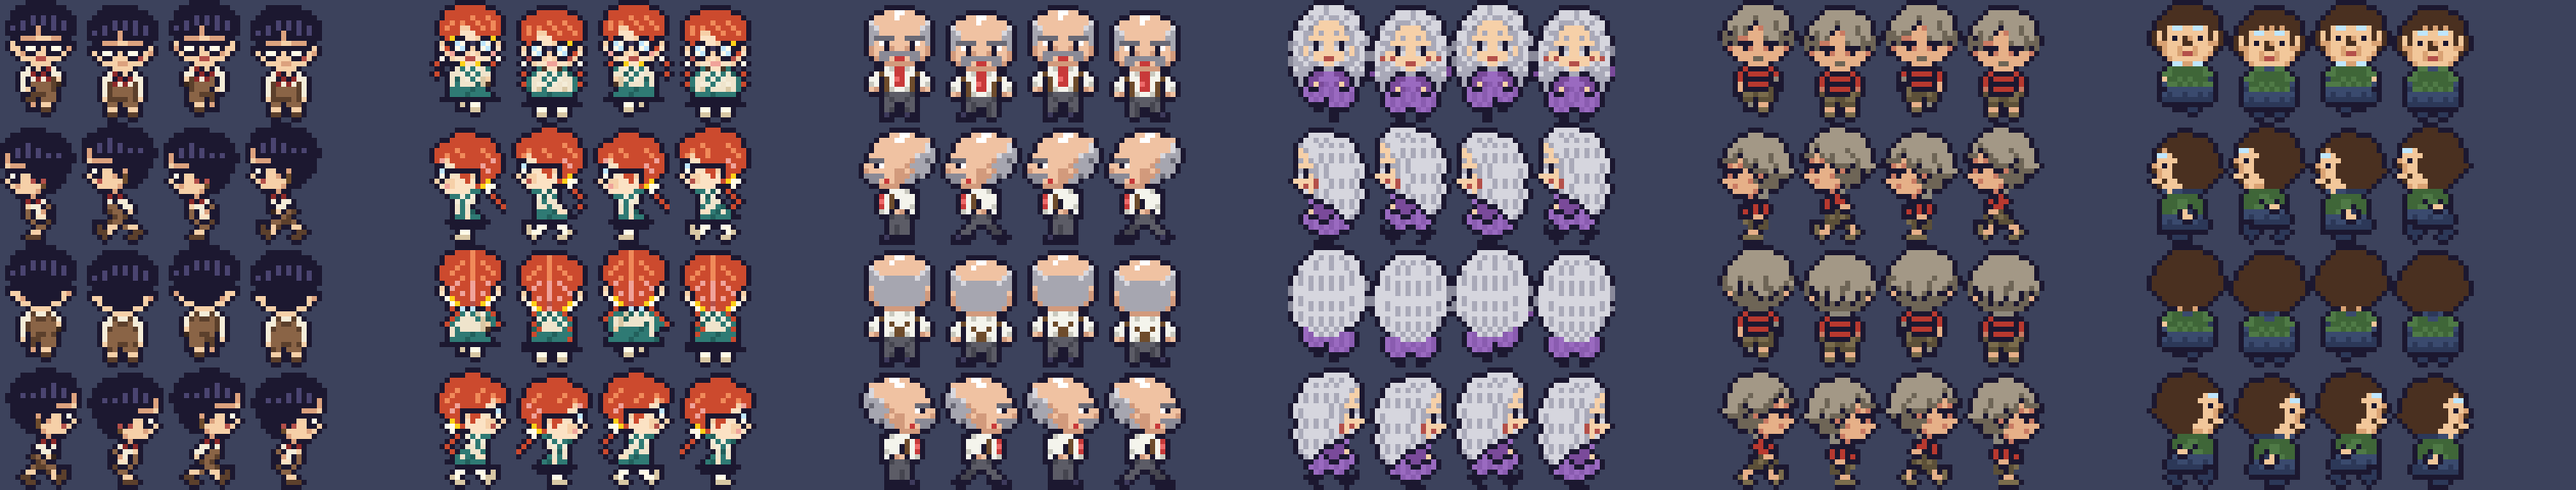
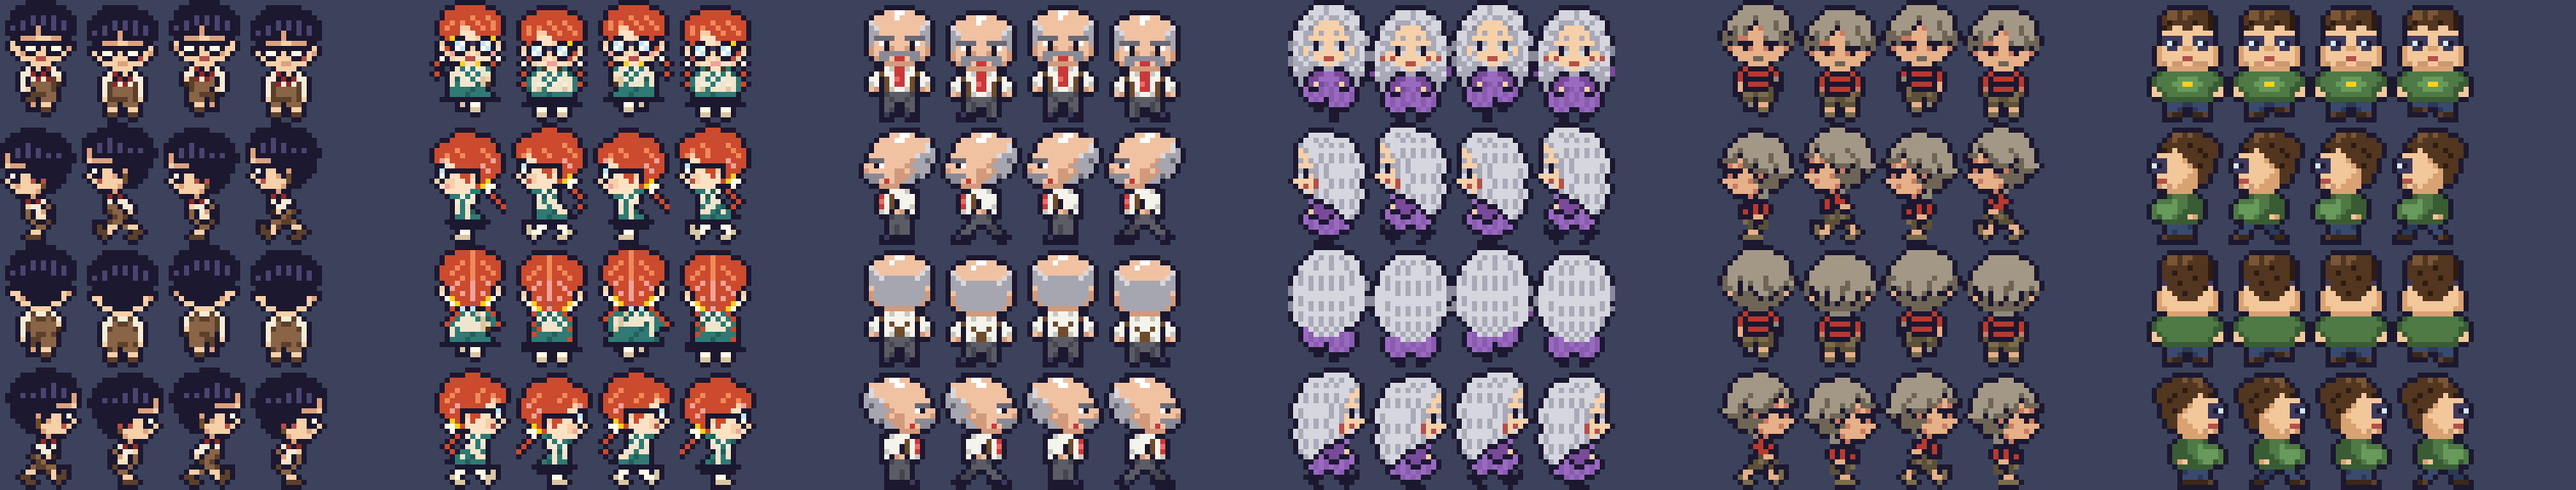
feat: Benny redibujado con silueta propia y su cuarto con servidores, mas libros y posteres de anime

Changed region(s): [[0.8082, 0.0, 0.9636, 1.0]]

diff --git a/src/scenes/places.ts b/src/scenes/places.ts
@@ -344,11 +344,18 @@ const benny: PlaceDef = {
     w.fillStyle(0x2a2140, 1).fillRect(0, 36, ROOM_W, 4);
     w.fillStyle(0x1c1830, 1).fillRect(0, 39, ROOM_W, 1);
     frame(c, undefined, 0x2a2140);
-    // pósteres y la ventana con la persiana bajada
+    // pósteres (naves, ordenadores y anime) y la ventana con la persiana bajada
     c.img("posters", 16, 6, 0).setDepth(3);
-    c.img("posters", 40, 6, 1).setDepth(3);
+    c.img("posters", 40, 6, 3).setDepth(3);
     c.img("window", 120, 2, 1).setDepth(3);
-    c.img("posters", 268, 6, 1).setDepth(3).setFlipX(true);
+    c.img("posters", 162, 6, 2).setDepth(3);
+    c.img("posters", 184, 6, 1).setDepth(3);
+    // dos armarios de servidores en el rincón, con las luces parpadeando
+    for (const [x, d] of [[274, 0], [296, 400]] as const) {
+      const r = c.scene.add.sprite(x, 8, "server_rack", 0).setOrigin(0, 0).setDepth(100 + 50);
+      c.scene.time.delayedCall(d, () => r.play("rack-blink"));
+    }
+    c.solid(274, 40, 44, 10);
     // cama individual sin hacer: cabecera con almohada y la manta
     c.prop("bed", 14, 42);
     c.solid(14, 46, 22, 32);
@@ -360,14 +367,19 @@ const benny: PlaceDef = {
     c.prop("chair", 212, 64);
     c.prop("soda_cans", 254, 60);
     // estantería con manuales, el puf y las cajas de pizza
+    c.prop("kenney", 60, 26, kenney(20, 17));
+    c.prop("kenney", 76, 26, kenney(21, 17));
     c.prop("kenney", 92, 26, kenney(20, 17));
     c.prop("kenney", 108, 26, kenney(21, 17));
-    c.solid(92, 34, 32, 8);
+    c.solid(60, 34, 64, 8);
+    c.prop("book_piles", 126, 30);
+    c.prop("book_piles", 30, 150);
+    c.solid(32, 160, 24, 8);
     c.prop("beanbag", 60, 118);
     c.solid(62, 126, 20, 8);
     c.prop("pizza_boxes", 270, 140);
     c.solid(272, 148, 22, 8);
-    c.prop("trash", 300, 60);
+    c.prop("trash", 300, 100);
   },
   home: [232, 92],
   terminal: { x: 216, y: 74, mark: [213, 30] },
@@ -380,7 +392,21 @@ const benny: PlaceDef = {
       ],
     },
     { id: "pizza", x: 282, y: 156, r: 16, label: "Cajas de pizza", lines: [{ who: "sam", text: "Cinco cajas vacías. Una con una nota: \"no tirar, es arte\"." }] },
-    { id: "manuales", x: 108, y: 48, r: 16, label: "Estantería", lines: [{ who: "sam", text: "El manual de C de Kernighan y Ritchie, tres de UNIX y un cómic de ciencia ficción encima de todo." }] },
+    { id: "manuales", x: 92, y: 48, r: 22, label: "Estanterías", lines: [{ who: "sam", text: "El manual de C de Kernighan y Ritchie, tres de UNIX, uno de LISP y una pila de cómics japoneses encima de todo." }] },
+    {
+      id: "servidores", x: 296, y: 56, r: 18, label: "Servidores",
+      lines: [
+        { who: "sam", text: "¿Tienes dos armarios de servidores en el cuarto?" },
+        { who: "benny", text: "Me los dio la universidad. Bueno, los iban a tirar. Calientan el cuarto gratis." },
+      ],
+    },
+    {
+      id: "posteres", x: 184, y: 46, r: 16, label: "Pósteres",
+      lines: [
+        { who: "sam", text: "Un robot gigante y una chica de ojos enormes. ¿Qué es esto?" },
+        { who: "benny", text: "Anime. De Japón. Me llegan las cintas por correo, subtituladas por un tipo de Ohio.", mood: "alegre" },
+      ],
+    },
   ],
   routine: [
     {

diff --git a/src/scenes/BootScene.ts b/src/scenes/BootScene.ts
@@ -34,10 +34,11 @@ export class BootScene extends Phaser.Scene {
     sheet("emotes", "emotes.png", 11, 11);
     sheet("sam_bike", "sam_bike.png", 40, 38);
     sheet("radio_rig", "radio_rig.png", 34, 24);
+    sheet("server_rack", "server_rack.png", 22, 42);
     sheet("posters", "posters.png", 18, 24);
     for (const f of [
       "wall", "wall_cap_v", "wall_cap_h", "chalkboard", "clock", "mug", "filing", "poster",
-      "calendar", "phone", "papers", "trash", "desk", "chair", "table", "rug", "telescope", "coatrack", "bicycle", "postit", "fridge", "paper_item", "folder_item", "pegboard", "workbench", "qsl_cards", "tire_stack", "pizza_boxes", "beanbag", "soda_cans", "bed",
+      "calendar", "phone", "papers", "trash", "desk", "chair", "table", "rug", "telescope", "coatrack", "bicycle", "postit", "fridge", "paper_item", "folder_item", "pegboard", "workbench", "qsl_cards", "tire_stack", "pizza_boxes", "beanbag", "soda_cans", "bed", "book_piles",
     ]) {
       this.load.image(f, A + f + ".png");
     }
@@ -65,6 +66,7 @@ export class BootScene extends Phaser.Scene {
     this.anims.create({ key: "cat-sleep", frames: this.anims.generateFrameNumbers("cat", {}), frameRate: 1.2, repeat: -1 });
     this.anims.create({ key: "cooler-bubble", frames: this.anims.generateFrameNumbers("cooler", {}), frameRate: 6, repeat: 3 });
     this.anims.create({ key: "radio-play", frames: this.anims.generateFrameNumbers("radio", {}), frameRate: 3.5, repeat: -1 });
+    this.anims.create({ key: "rack-blink", frames: this.anims.generateFrameNumbers("server_rack", {}), frameRate: 1.5, repeat: -1 });
     this.anims.create({ key: "radio-rx", frames: this.anims.generateFrameNumbers("radio_rig", {}), frameRate: 2, repeat: -1 });
     this.anims.create({ key: "sam-bike", frames: this.anims.generateFrameNumbers("sam_bike", {}), frameRate: 9, repeat: -1 });
     this.anims.create({ key: "sat-blink", frames: this.anims.generateFrameNumbers("satellite", {}), frameRate: 2, repeat: -1 });

diff --git a/tools/art/characters.py b/tools/art/characters.py
@@ -42,6 +42,15 @@ CHARS = {
         "w": "#f4f4ec", "v": "#c8c8be", "r": "#c83a3a", "R": "#ee6a6a", "J": "#6e4c2c",
         "p": "#5c5c66", "P": "#45454f", "b": "#1c1830", "B": "#3e3a5c",
     },
+    # Benny: programador grande y desganado. Pelo castaño revuelto, gafas grandes,
+    # barba de tres días, camiseta verde que le queda justa en la barriga, vaqueros.
+    "benny": {
+        "s": "#f2c79a", "S": "#d9a273", "c": "#c99a74",
+        "H": "#7a5636", "h": "#523620", "d": "#2e1c12",
+        "g": "#3e3a5c", "L": "#cfeeff",
+        "t": "#4f7a46", "T": "#3a5c34", "l": "#689a5c", "y": "#fed018",
+        "p": "#3a4a6e", "P": "#2c3858", "b": "#3a2818", "B": "#5c4030",
+    },
 }
 
 # Cada vista: 13 filas de cabeza + 6 de cuerpo (las piernas van aparte).
@@ -241,6 +250,119 @@ VIEWS = {
             "....kkPppPkk....",
         ],
     },
+    "benny": {
+        "down": [
+            "................",
+            "....kkkkkkkk....",
+            "...kHHhHHhhhk...",
+            "..khHHhHhhhhdk..",
+            "..khdhhhhdhhdk..",
+            "..kdhsshhsshdk..",
+            "..kssssssssssk..",
+            "..kggggssggggk..",
+            "..kgLegssgLegk..",
+            ".kSsggsSSsggsSk.",
+            ".kSssssssssssSk.",
+            ".kSssssrrssssSk.",
+            ".kScsccsscccsSk.",
+            "..kkSSSSSSSSkk..",
+            ".kTttttttttttTk.",
+            "kTttttllllttttTk",
+            "kTtttllyyllttTTk",
+            "ksTtttllllttTTsk",
+            "kssTttttttttTssk",
+        ],
+        "up": [
+            "................",
+            "....kkkkkkkk....",
+            "...kHHhHHhhhk...",
+            "..khHHhHhhhhdk..",
+            "..khhhhhdhhhdk..",
+            "..khhdhhhhhhdk..",
+            "..khhhhhhdhhdk..",
+            "..kghhdhhhhhgk..",
+            "..kshhhhhhhdsk..",
+            ".kSsshhdhhhssSk.",
+            ".kSssshhhhsssSk.",
+            ".kSssssssssssSk.",
+            ".kSSssssssssSSk.",
+            "..kkSSSSSSSSkk..",
+            ".kTttttttttttTk.",
+            "kTttttttttttttTk",
+            "kTtttttttttttTTk",
+            "ksTttttttttttTsk",
+            "kssTttttttttTssk",
+        ],
+        "left": [
+            "................",
+            ".....kkkkkk.....",
+            "....kHHhHhhkk...",
+            "...khHhhhhhhhk..",
+            "..khhhhhdhhhhhk.",
+            "..kdhshhhhdhhhk.",
+            ".kssssshhhhdhhk.",
+            "kgggsssShhhhhk..",
+            "kLegssssShdhhk..",
+            "kgggsssssShhhk..",
+            ".kssssssSShhk...",
+            ".krrsssSSShhk...",
+            ".kcscsSSSSkk....",
+            "..kkSSSSSk......",
+            "..kkTtttTTk.....",
+            ".ktttlttTTTk....",
+            "ktllllttTTTk....",
+            "ktlllltTTTTk....",
+            "ktTlltTTsSTk....",
+        ],
+    },
+}
+
+BENNY_LEGS_FRONT = {
+    "stand": [
+        ".kkTTTTTTTTTTkk.",
+        "...kpppPPpppk...",
+        "...kppPkkPppk...",
+        "...kBbbkkbbBk...",
+        "...kkkk..kkkk...",
+    ],
+    "a": [
+        ".kkTTTTTTTTTTkk.",
+        "...kpppPPpppk...",
+        "...kppPkkbbBk...",
+        "...kBbbk.kkkk...",
+        "...kkkk.........",
+    ],
+    "b": [
+        ".kkTTTTTTTTTTkk.",
+        "...kpppPPpppk...",
+        "...kbbBkkPppk...",
+        "...kkkk.kBbbk...",
+        ".........kkkk...",
+    ],
+}
+
+BENNY_LEGS_SIDE = {
+    "stand": [
+        ".kkTTTTTTTk.....",
+        "...kppppPk......",
+        "...kpPpppk......",
+        "..kBbbbbbk......",
+        "..kkkkkkkk......",
+    ],
+    "a": [
+        ".kkTTTTTTTk.....",
+        "..kppkkPPk......",
+        ".kppk..kPPk.....",
+        "kBbbk...kbbk....",
+        "kkkk.....kkk....",
+    ],
+    "b": [
+        ".kkTTTTTTTk.....",
+        "..kPPkkppk......",
+        ".kPPk..kppk.....",
+        "kbbbk...kBbk....",
+        "kkkk.....kkk....",
+    ],
 }
 
 LEGS_FRONT = {
@@ -370,7 +492,10 @@ def frame_raw(name, view, step):
     rows = VIEWS[name][view]
     if name in ("sam", "ruth"):
         rows = autoshade(rows, "strands" if name == "sam" else "curls")
-    rows = rows + (LEGS_SIDE if view == "left" else LEGS_FRONT)[step]
+    if name == "benny":
+        rows = rows + (BENNY_LEGS_SIDE if view == "left" else BENNY_LEGS_FRONT)[step]
+    else:
+        rows = rows + (LEGS_SIDE if view == "left" else LEGS_FRONT)[step]
     assert len(rows) == 24, (name, view, len(rows))
     im = Image.new("RGBA", (16, 24), (0, 0, 0, 0))
     for y, row in enumerate(rows):
@@ -394,6 +519,11 @@ FACE_EDITS = {
         "sorpresa": [(11, 7, "k"), (11, 8, "k"), (7, 4, "k"), (7, 5, "k"), (7, 10, "k"), (7, 11, "k")],
         "serio": [(11, 7, "S"), (11, 8, "S"), (8, 4, "k"), (8, 5, "k"), (8, 10, "k"), (8, 11, "k")],
         "alegre": [(11, 6, "r"), (11, 7, "W"), (11, 8, "W"), (11, 9, "r"), (9, 4, "k"), (9, 5, "k"), (9, 10, "k"), (9, 11, "k"), (10, 5, "s"), (10, 10, "s")],
+    },
+    "benny": {
+        "sorpresa": [(11, 7, "k"), (11, 8, "k"), (12, 7, "k"), (12, 8, "k")],
+        "serio": [(11, 7, "k"), (11, 8, "k"), (11, 6, "k"), (11, 9, "k"), (6, 3, "d"), (6, 4, "d"), (6, 11, "d"), (6, 12, "d")],
+        "alegre": [(11, 6, "r"), (11, 7, "W"), (11, 8, "W"), (11, 9, "r"), (10, 3, "R"), (10, 12, "R")],
     },
     "kessler": {
         "sorpresa": [(11, 7, "k"), (11, 8, "k"), (7, 3, "s"), (7, 4, "s"), (7, 11, "s"), (7, 12, "s"), (6, 4, "d"), (6, 5, "d"), (6, 10, "d"), (6, 11, "d")],
@@ -440,7 +570,7 @@ def build_portraits():
 # izquierda (por eso al principio Sam "caminaba al revés").
 
 PACK = os.path.join(os.path.dirname(os.path.abspath(__file__)), "source", "piano_characters.png")
-PACK_INDEX = {"sam": 5, "ruth": 8, "margarita": 6, "gus": 3, "benny": 12}
+PACK_INDEX = {"sam": 5, "ruth": 8, "margarita": 6, "gus": 3}
 PACK_ROWS = [0, 3, 2, 1]  # abajo, izquierda, arriba, derecha
 
 PACK_SRC = {

diff --git a/tools/art/mentor_props.py b/tools/art/mentor_props.py
@@ -139,7 +139,8 @@ def beanbag():
 
 
 def poster(kind):
-    """Pósteres del cuarto de Benny: 0 una nave espacial, 1 un ordenador de los 80."""
+    """Pósteres del cuarto de Benny: 0 una nave espacial, 1 un ordenador de los 80,
+    2 un robot gigante de anime, 3 una chica de anime de ojos enormes."""
     c = Canvas(18, 24)
     c.box(0, 0, 18, 24, "z")
     if kind == 0:
@@ -148,6 +149,32 @@ def poster(kind):
         c.ascii(5, 7, ["...H....", "..HwH...", ".HwuwH..", "HHwwwHH.", "..y.y..."])
         c.rect(2, 19, 14, 3, "y")
         c.hline(4, 20, 10, "a")
+    elif kind == 2:
+        # cabeza de robot gigante: casco blanco, antena en V amarilla y visor verde
+        c.rect(1, 1, 16, 22, "v")
+        c.ascii(2, 2, ["y............y", ".y..........y.", "..yy......yy..", "....yy..yy....", "......yy......"])
+        c.box(4, 7, 10, 9, "W")
+        c.rect(5, 8, 8, 2, "u")
+        c.rect(6, 10, 6, 2, "k")
+        c.ascii(6, 10, ["NN..NN"])
+        c.rect(7, 13, 4, 2, "r")
+        c.ascii(5, 14, ["h......h"])
+        c.rect(1, 18, 16, 5, "r")
+        c.ascii(3, 19, ["W.WW.W.WWW.W", "WW.W.WW.W.WW"])
+    elif kind == 3:
+        # chica de anime: flequillo rosa, ojos enormes y letras japonesas de mentira
+        c.rect(1, 1, 16, 22, "U")
+        c.ascii(14, 2, ["k", "k", ".", "k", "k", "k", ".", "k"])
+        c.rect(3, 4, 10, 12, "7")
+        c.rect(4, 8, 8, 8, "P")
+        c.ascii(3, 7, ["7778777877", "77.7..7.77"])
+        c.ascii(4, 10, ["kkW..kkW", "kuu..kuu", "kuu..kuu"])
+        c.ascii(7, 14, ["rr"])
+        c.ascii(4, 13, ["R......R"])
+        c.rect(2, 14, 2, 6, "7")
+        c.rect(12, 14, 2, 6, "8")
+        c.rect(4, 16, 8, 6, "r")
+        c.ascii(6, 16, ["WWWW"])
     else:
         c.box(3, 4, 12, 9, "H")
         c.rect(5, 6, 8, 5, "u")
@@ -188,6 +215,36 @@ def bed():
     return c
 
 
+def server_rack(frame):
+    """Armario de servidores con las luces parpadeando (dos cuadros)."""
+    c = Canvas(22, 42)
+    c.box(0, 0, 22, 42, "K")
+    c.rect(1, 1, 20, 2, "s")
+    for i in range(6):
+        y = 4 + i * 6
+        c.box(2, y, 18, 5, "g")
+        c.hline(3, y + 1, 16, "G")
+        for j in range(4):
+            on = (i * 3 + j + frame) % 3 != 0
+            c.put(4 + j * 2, y + 3, ("n" if (i + j) % 4 else "A") if on else "s")
+        c.ascii(13, y + 2, ["hhhhh", "s.s.s"])
+    c.rect(2, 40, 18, 1, "s")
+    return c
+
+
+def book_piles():
+    """Pilas de libros y manuales en el suelo."""
+    c = Canvas(26, 18)
+    piles = [(0, ["u", "r", "y", "n", "U"]), (9, ["n", "A", "u"]), (16, ["r", "W", "u", "y", "A", "n"])]
+    for x, cols in piles:
+        for i, col in enumerate(cols):
+            y = 15 - i * 3
+            dx = (i % 2)
+            c.box(x + dx, y, 9, 3, col)
+            c.hline(x + dx + 1, y + 1, 2, "x")
+    return c
+
+
 def main():
     save("radio_rig", strip([radio_rig(0), radio_rig(1)]))
     save("pegboard", pegboard())
@@ -196,7 +253,9 @@ def main():
     save("tire_stack", tire_stack())
     save("pizza_boxes", pizza_boxes())
     save("beanbag", beanbag())
-    save("posters", strip([poster(0), poster(1)]))
+    save("posters", strip([poster(0), poster(1), poster(2), poster(3)]))
+    save("server_rack", strip([server_rack(0), server_rack(1)]))
+    save("book_piles", book_piles())
     save("soda_cans", soda_cans())
     save("bed", bed())
     print("ok mentores")

diff --git a/tools/art/palette.py b/tools/art/palette.py
@@ -70,6 +70,9 @@ PALETTE = {
     # verde de pizarra
     "S": "#2f4a3c",
     "V": "#3d5e4c",
+    # rosa de los pósteres de anime
+    "7": "#f08ab4",
+    "8": "#b4507e",
 }
 
 
